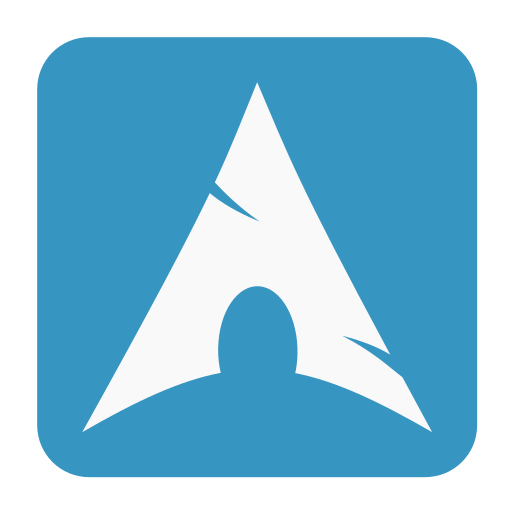
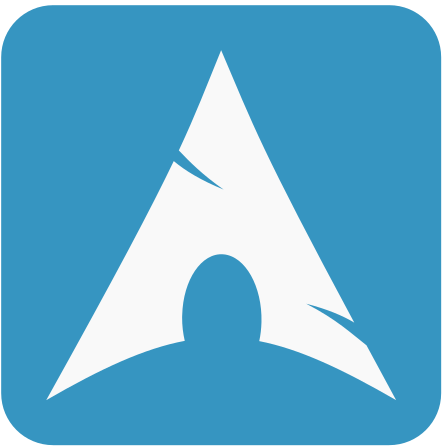
Added log and updated images

diff --git a/style.css b/style.css
@@ -3,7 +3,6 @@ body {
     height: 100%;
     font-family:Arial, Helvetica, sans-serif, Verdana, Geneva, Tahoma, sans-serif;
     display: flex;
-    /* border: 2px solid green; */
     margin: 0;
     flex-direction: column;
 }
@@ -15,15 +14,16 @@ body {
     color: #f9faf8;
 }
 
+
+.logo-image {
+    flex: 0 0 100px;
+    margin-top: 5px;
+}
+
 .header-link {
     display: flex;
     justify-content: space-around;
     align-items: center;
-}
-
-header {
-    font-size: 24px;
-    color: #f9faf8;
 }
 
 ul {
@@ -78,7 +78,6 @@ a {
     flex-direction: column ;
     justify-content: center;
     align-items: center;
-    border: 2px solid white;
     margin: 16px;
 }
 
@@ -111,23 +110,24 @@ img {
 .product-images {
     display: flex;
     justify-content: center;
-    align-items: center;
+    /* align-items: center; */
 }
 
 .outer-box {
     display: flex;
     flex-direction: column;
-    text-align: center;
+    justify-content: space-around;
+    /* text-align: center; */
     flex: 0 0 100px;
     padding: 32px;
 }
 
 .box {
-    border: 2px solid rgb(0, 195, 255);
-    border-radius: 4px;
-    box-shadow: 2px 4px 16px rgba(0,0,0,.06);
-    width: 100px;
-    flex: 0 0 100px;
+    /* border: 2px solid rgb(0, 195, 255); */
+    /* border-radius: 4px; */
+    /* box-shadow: 2px 4px 16px rgba(0,0,0,.06); */
+    /* width: 100px; */
+    /* flex: 0 0 100px; */
 }
 
 .quote {

diff --git a/index.html b/index.html
@@ -11,7 +11,11 @@
     <div class="top-box">
         
         <div class="header-link">
-            <header>Header Logo</header>
+
+            <div class="logo-image">
+                <img src="./images/osi_symbol_0.png" alt="osi">
+            </div>
+        
             <ul>
                 <li><a href="https://www.google.com/search?channel=fs&client=ubuntu&q=list+of+all+linux+distros" target="_blank" rel="noopener noreferrer">Distros</a> </li>
                 <li><a href="https://en.wikipedia.org/wiki/Open-source_software" target="_blank" rel="noopener noreferrer">Wiki</a> </li>
@@ -28,7 +32,7 @@
             </div>
 
             <div class="header-image">
-                <img src="./images/singapore.jpg" alt="singapore">
+                <a href="https://www.theodinproject.com/" target="_blank" rel="noopener noreferrer"><img src="./images/singapore.jpg" alt="singapore"></a> 
                 <p>Image by <a href="https://pixabay.com/users/geralt-9301/?utm_source=link-attribution&amp;utm_medium=referral&amp;utm_campaign=image&amp;utm_content=2064905" target="_blank" rel="noopener noreferrer">Gerd Altmann</a> from <a href="https://pixabay.com/?utm_source=link-attribution&amp;utm_medium=referral&amp;utm_campaign=image&amp;utm_content=2064905">Pixabay</a></p>
             </div>
         </div>
